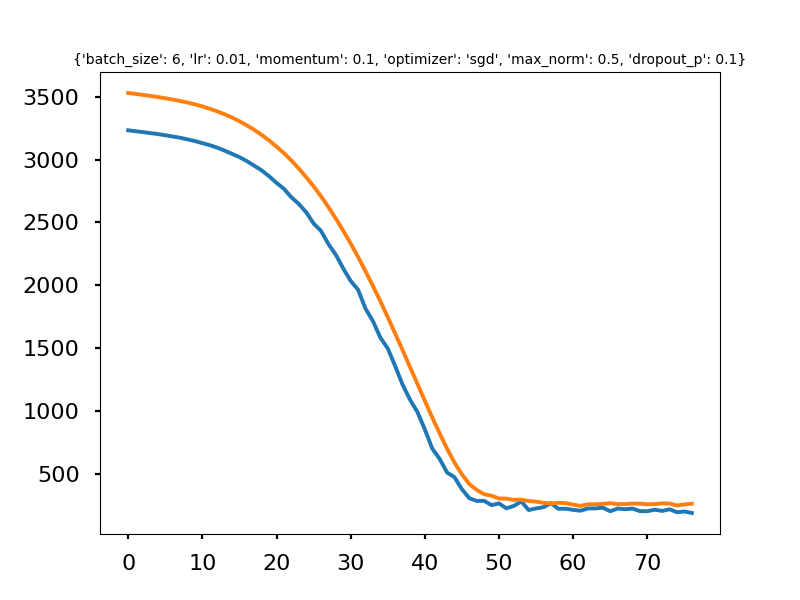
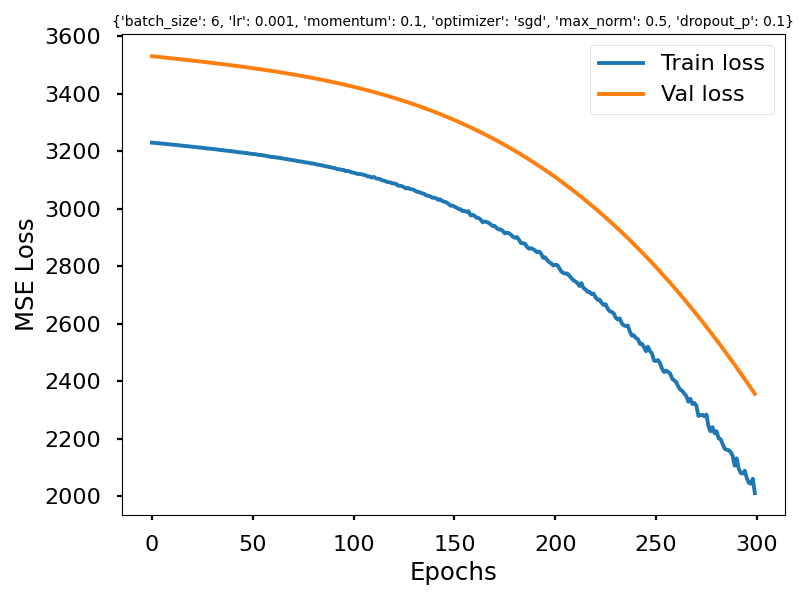
finish model hyperparam search and readme section

diff --git a/ProteomicsModel_hyperparams.py b/ProteomicsModel_hyperparams.py
@@ -80,12 +80,12 @@ hyperparam_combos = {
 # I ran the search previously and came up with these combos
 # Re-running now just so I can clean up the figures...
 hyperparam_combos = {
-    "batch_size": [6, 20],
-    "lr": [0.001, 0.0001],
-    "momentum": [0.1, 0.3],
+    "batch_size": [6],
+    "lr": [0.001],
+    "momentum": [0.6],
     "optimizer": ['sgd'],
-    "max_norm": [0.5, 1, 5],
-    "dropout_p": [0.1, 0.3]
+    "max_norm": [0.5],
+    "dropout_p": [0.3]
 }
 # build hyperparam combos
 keys = list(hyperparam_combos.keys())
@@ -249,12 +249,14 @@ for c, combo in enumerate(hyperparam_grid):
 
         # plot every once in a while 
         plt.figure(figsize=(8,6))
-        plt.plot(fold_train_losses, label="train loss")
-        plt.plot(fold_val_losses, label="val loss")
+        plt.plot(fold_train_losses, label="Train loss")
+        plt.plot(fold_val_losses, label="Val loss")
         plt.title(f"{combo}", fontsize=10)
+        plt.xlabel("Epochs")
+        plt.ylabel("MSE Loss")
         plt.legend()
         plt.tight_layout()
-        plt.savefig(f"./grid_search_figs/loss_combo{c}.png")
+        plt.savefig(f"./grid_search_figs/loss_combo_momentumfix2{c}.png")
         plt.close()
 
     # mean and sd training loss across folds 
@@ -287,4 +289,4 @@ print(f"Min. to run: {(end - start) / 60}\n")
 
 # explore best hyperparams
 df = pd.DataFrame(search_results_list)
-df.to_csv("../Data/hyper_param_results_re-run.csv")
+df.to_csv("../Data/hyper_param_results_re-run_momentumfix2.csv")

diff --git a/README.md b/README.md
@@ -143,11 +143,66 @@ When training and evaluating MSE on the entire dataset, this initial model-build
 <br>
 
 ### Hyperparameter search
-show some figs from search
+
+I use grid searching to find hyperparameters. In the future, I would probably 
+partition the search by first identifying a good optimizer and learning rate, then 
+adding additional components of dropout, momentum, etc. later on. But for this 
+project I searched an entire grid of values for: batch size, learning rate, momentum 
+optmizer, max_norm in gradient clipping, and dropout.  
+
+**Cross-Validation:**  
+I used 6-fold cross-validation, thus training and evaluating 6 models for each 
+combination of hyperparameter values. I then averaged the training and validation 
+loss across all folds of the data.  
+
+**Flexible Epochs:**  
+The model was set to train for 300 epochs. However, because I explored different 
+batch sizes - batch sizes of 6, 20, and 60 (full batch) were attempted - the 
+actual number of weight updates would differ between models with non-matching 
+batch sizes, even if both were trained for the same number of epochs. To allow 
+models with larger batch sizes the chance to exahustively train, I used a 
+flexible epoch training value. If batch size for a combo was 60, then the 
+maximum number of epoch ran was increased by 10. If the batch size was 20, epochs 
+were increased by ~3.33. A batch size of 6 had no increase in epochs. This aligns 
+the epochs for different batch sizes, allowing for the same number of weight updates 
+regardless of batch size.  
+
+**Early stopping:**  
+I also included an early stopping criteria in the model training. If validation 
+loss did not increase by a minimum ammount (delta) over a number of consecutive 
+training epochs (patience), then the training loop was terminated. The pre-set delta was 5 points, so the model had to improve validation loss by 5 points to reset the 
+patience counter. If the patience counter was not reset after 15 epochs (i.e., 
+after 15 epochs, the model had not improved validation loss by 5 points or more), 
+then the training loop was terminated. The patience value of 15 epochs was also 
+adjusted based on batch size, using the same process as outlined above.  
+
+Training and validation loss plots over epochs were maintained for each 
+hyperparameter combination. Rather than save a plot for every model in CV (6 models 
+per hyperparam combo), I just saved the model loss plots for the final CV fold.  
+
+**Figure 6.** Training and validation loss plots for two models with different hyperparameter combinations. THe first is a model trained for the full 300 epochs, 
+but did not reach convergence. The second model had more aggressive gradient 
+clipping and met early stopping criteria after ~75 epochs of training.  
+<img src="./grid_search_figs/loss_combo0.png" width=300>
+<img src="./grid_search_figs/loss_combo4.png" width=300>
 
 ### Model selection
+
 describe selection process
-show figs of model performances (scatters)
+show plots for all the models
+
+Below are training and loss plots from all 10 models selected for the ensemble approach.  
+
+<img src="./grid_search_figs/loss_combo2.png" width=100>
+<img src="./grid_search_figs/loss_combo8.png" width=100>
+<img src="./grid_search_figs/loss_combo_momentumfix0.png" width=100>
+<img src="./grid_search_figs/loss_combo_momentumfix20.png" width=100>
+<img src="./grid_search_figs/loss_combo_momentumfix1.png" width=100>
+<img src="./grid_search_figs/loss_combo_momentumfix5.png" width=100>
+<img src="./grid_search_figs/loss_combo26.png" width=100>
+<img src="./grid_search_figs/loss_combo32.png" width=100>
+<img src="./grid_search_figs/loss_combo_momentumfix6.png" width=100>
+<img src="./grid_search_figs/loss_combo_momentumfix11.png" width=100>
 
 ### Ensemble approaches
 describe ensemble approaches
